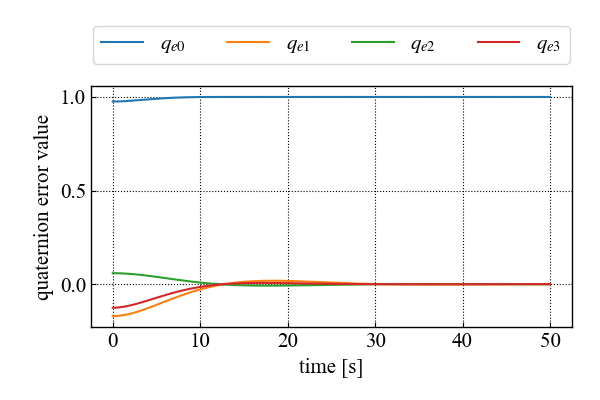
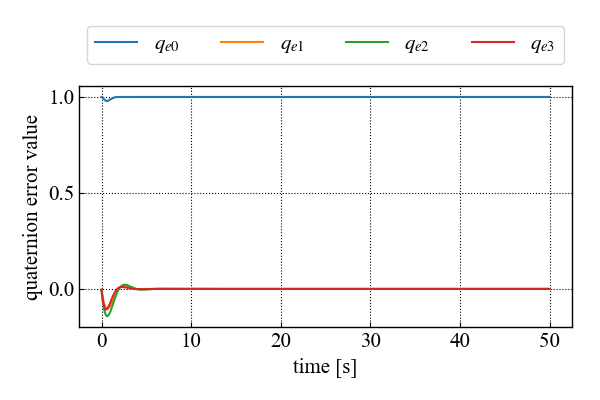
FIX: state upgrade

diff --git a/dqn_hist/environment.py b/dqn_hist/environment.py
@@ -139,9 +139,9 @@ class SatelliteContinuousEnv(gym.Env):
         self.simutime =30
         
         #報酬パラメータ
-        self.q_weight =  1*1
-        self.w_weight = 1.5*4
-        self.action_weight = 0.25*0.5
+        self.q_weight =  1*15
+        self.w_weight = 1.5*80
+        self.action_weight = 0.25*5
         
         # 初期状態 角度(deg)　角速度(rad/s)
         # Rest to Rest
@@ -269,20 +269,20 @@ class SatelliteContinuousEnv(gym.Env):
             # reward += -0.01
             #状態と入力を抑えたい
             # reward = -(self.q_weight*((1-qe_new[0])**2) + self.w_weight/0.25*omega_new@omega_new + self.action_weight/0.04*action@action) 
-            # self.r1 = self.q_weight*((1-qe_new[0])**2+ qe_new[1:]@qe_new[1:])
-            # self.r2 = self.w_weight*omega_new@omega_new
-            # self.r3 = self.action_weight*action@action
-            # reward = -(self.r1 + self.r2 + self.r3) 
+            self.r1 = self.q_weight*((1-qe_new[0])**2+ qe_new[1:]@qe_new[1:])
+            self.r2 = self.w_weight*omega_new@omega_new
+            self.r3 = self.action_weight*action@action
+            reward = -(self.r1 + self.r2 + self.r3) 
             # pre = np.rad2deg(omega_new)
             # reward = 1/np.sqrt(2*np.pi)*np.exp(-1/2*(pre@pre))
-            reward = -0.01
-            if omega@omega < self.omega_thre:
-                reward += 0.5
-            else:
-                if omega_new@omega_new < omega@omega:
-                    reward += 0.1
-                else:
-                    reward += -0.1
+            # reward = -0.01
+            # if omega@omega < self.omega_thre:
+            #     reward += 0.5
+            # else:
+            #     if omega_new@omega_new < omega@omega:
+            #         reward += 0.1
+            #     else:
+            #         reward += -0.1
         elif self.steps_beyond_done is None:
             # epsiode just ended
             self.steps_beyond_done = 0

diff --git a/dqn_hist/utils.py b/dqn_hist/utils.py
@@ -90,7 +90,7 @@ def mini_batch_train_adaptive(env, agent, max_episodes, max_steps, batch_size, t
                             elif n[i] == '2':
                                 sign[i] = -1
                         para = [k,D[0,0],D[4,4],D[8,8]]
-                        para_exp = [np.log10(para[i]) if i==0 else np.log10(para[i]-1e-5+1e-6) for i in range(len(para))]
+                        para_exp = [np.log10(para[i]) if i==0 else np.log10(para[i]-1e-5) for i in range(len(para))]
                         para_exp_f = [np.floor(para_exp[i]) for i in range(len(para))]
                         delta_tmp = [0]*len(para)
                         delta_tmp[0] = para_exp_f[0]-1 if para_exp[0].is_integer() else para_exp_f[0]
